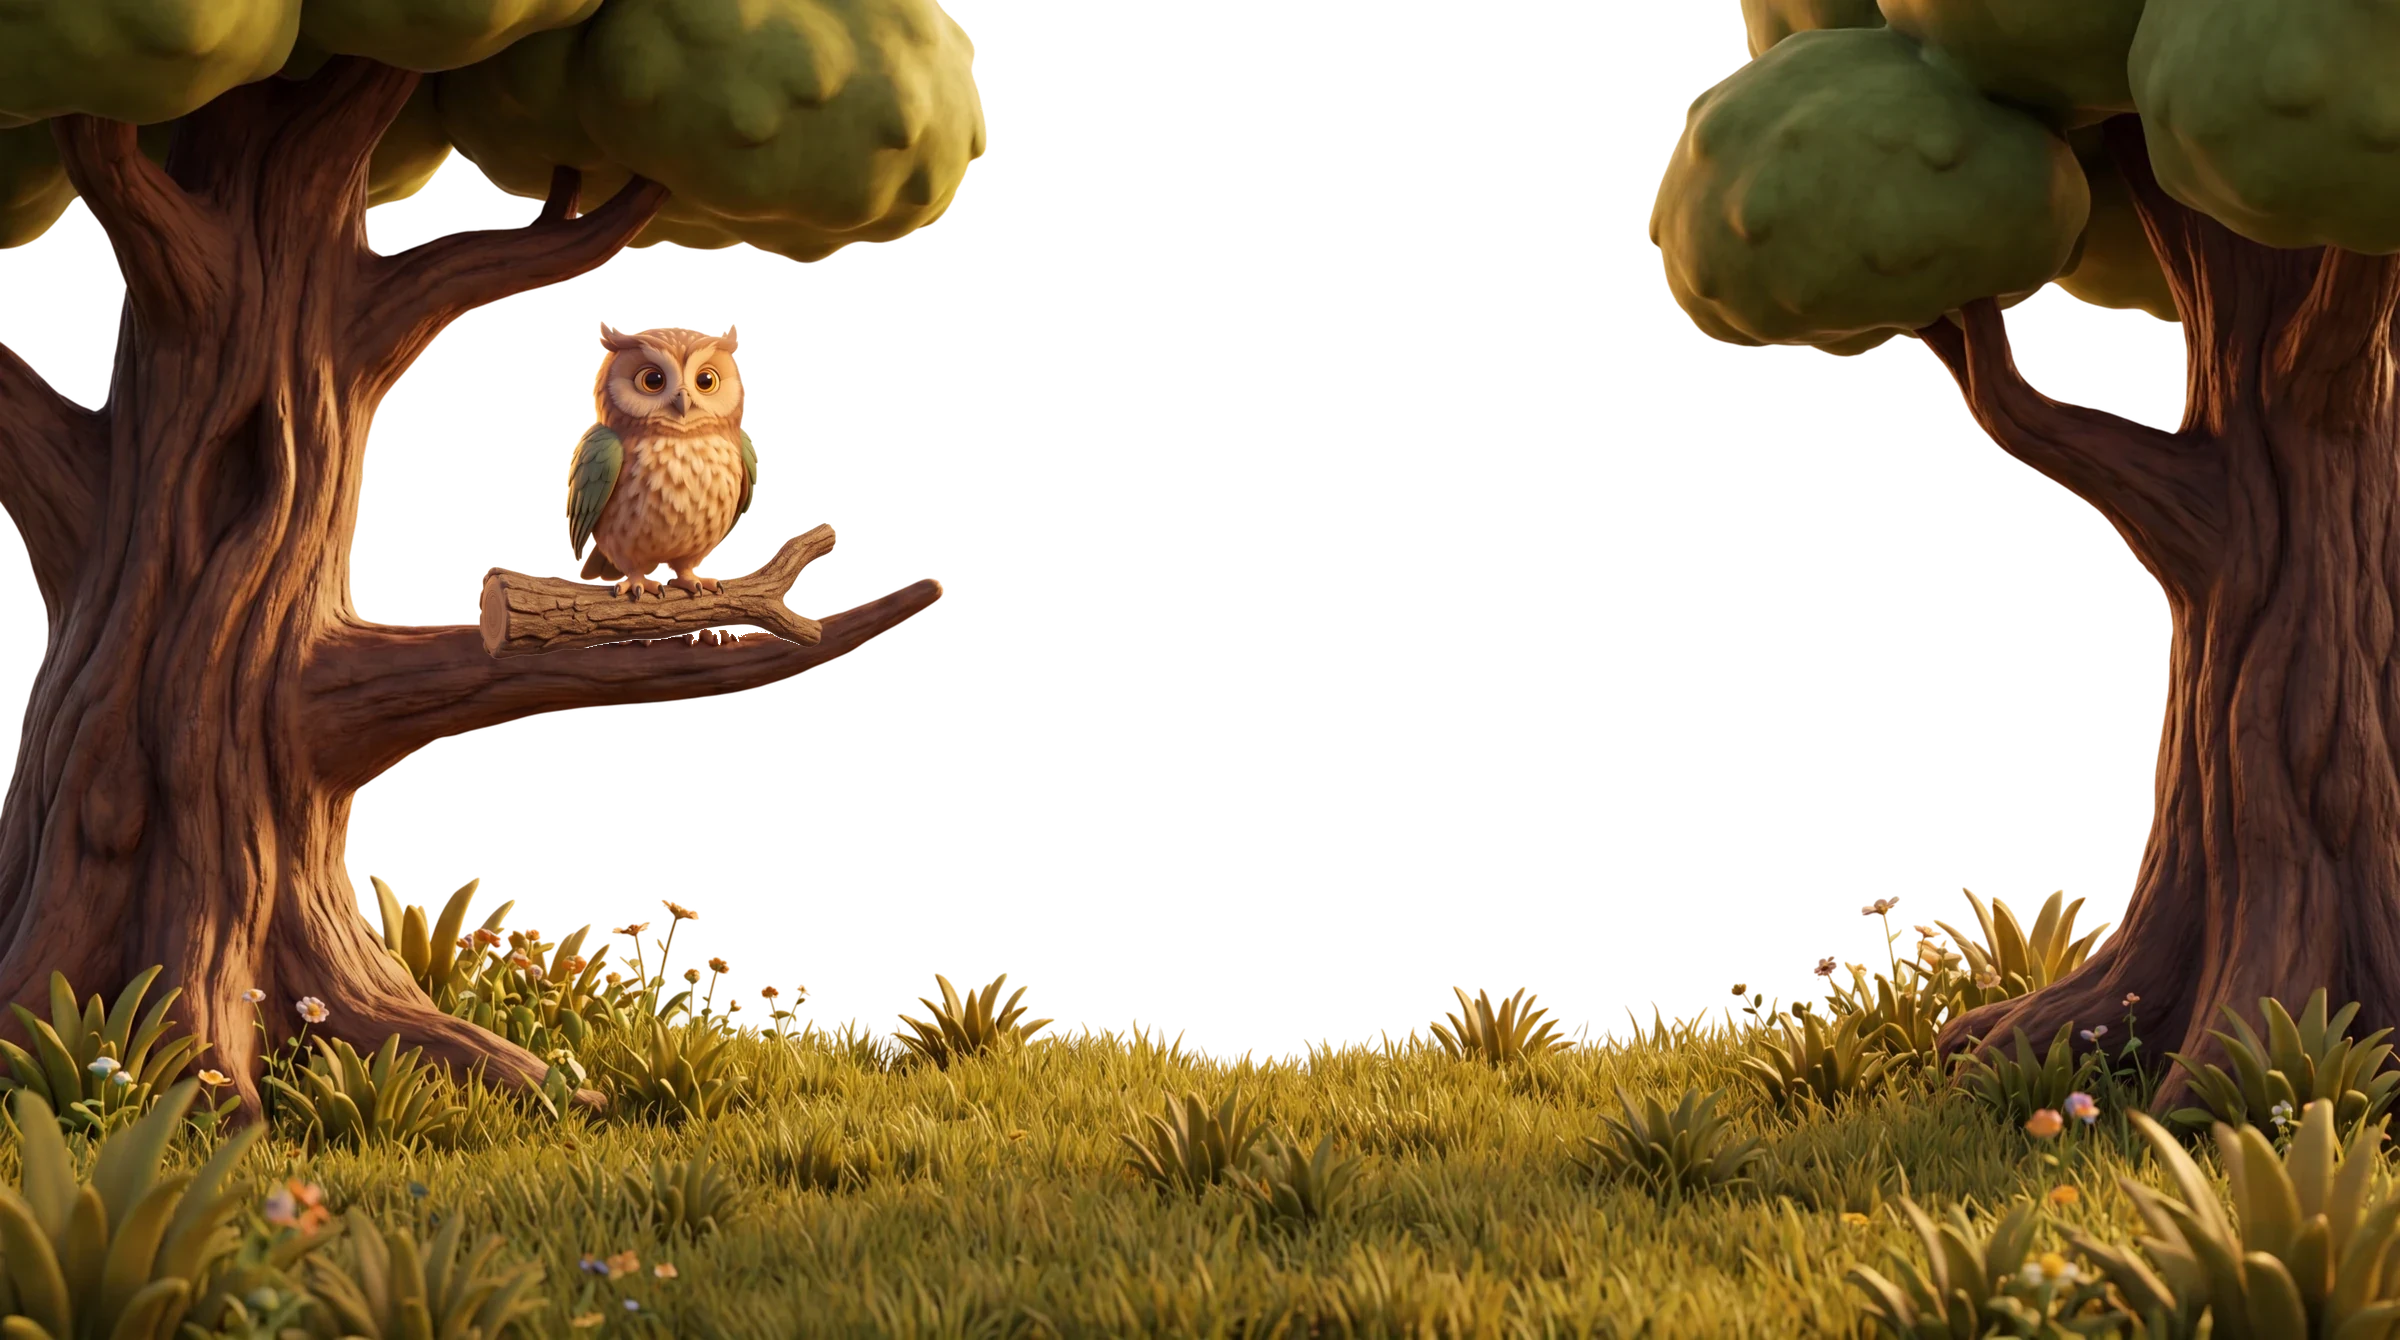
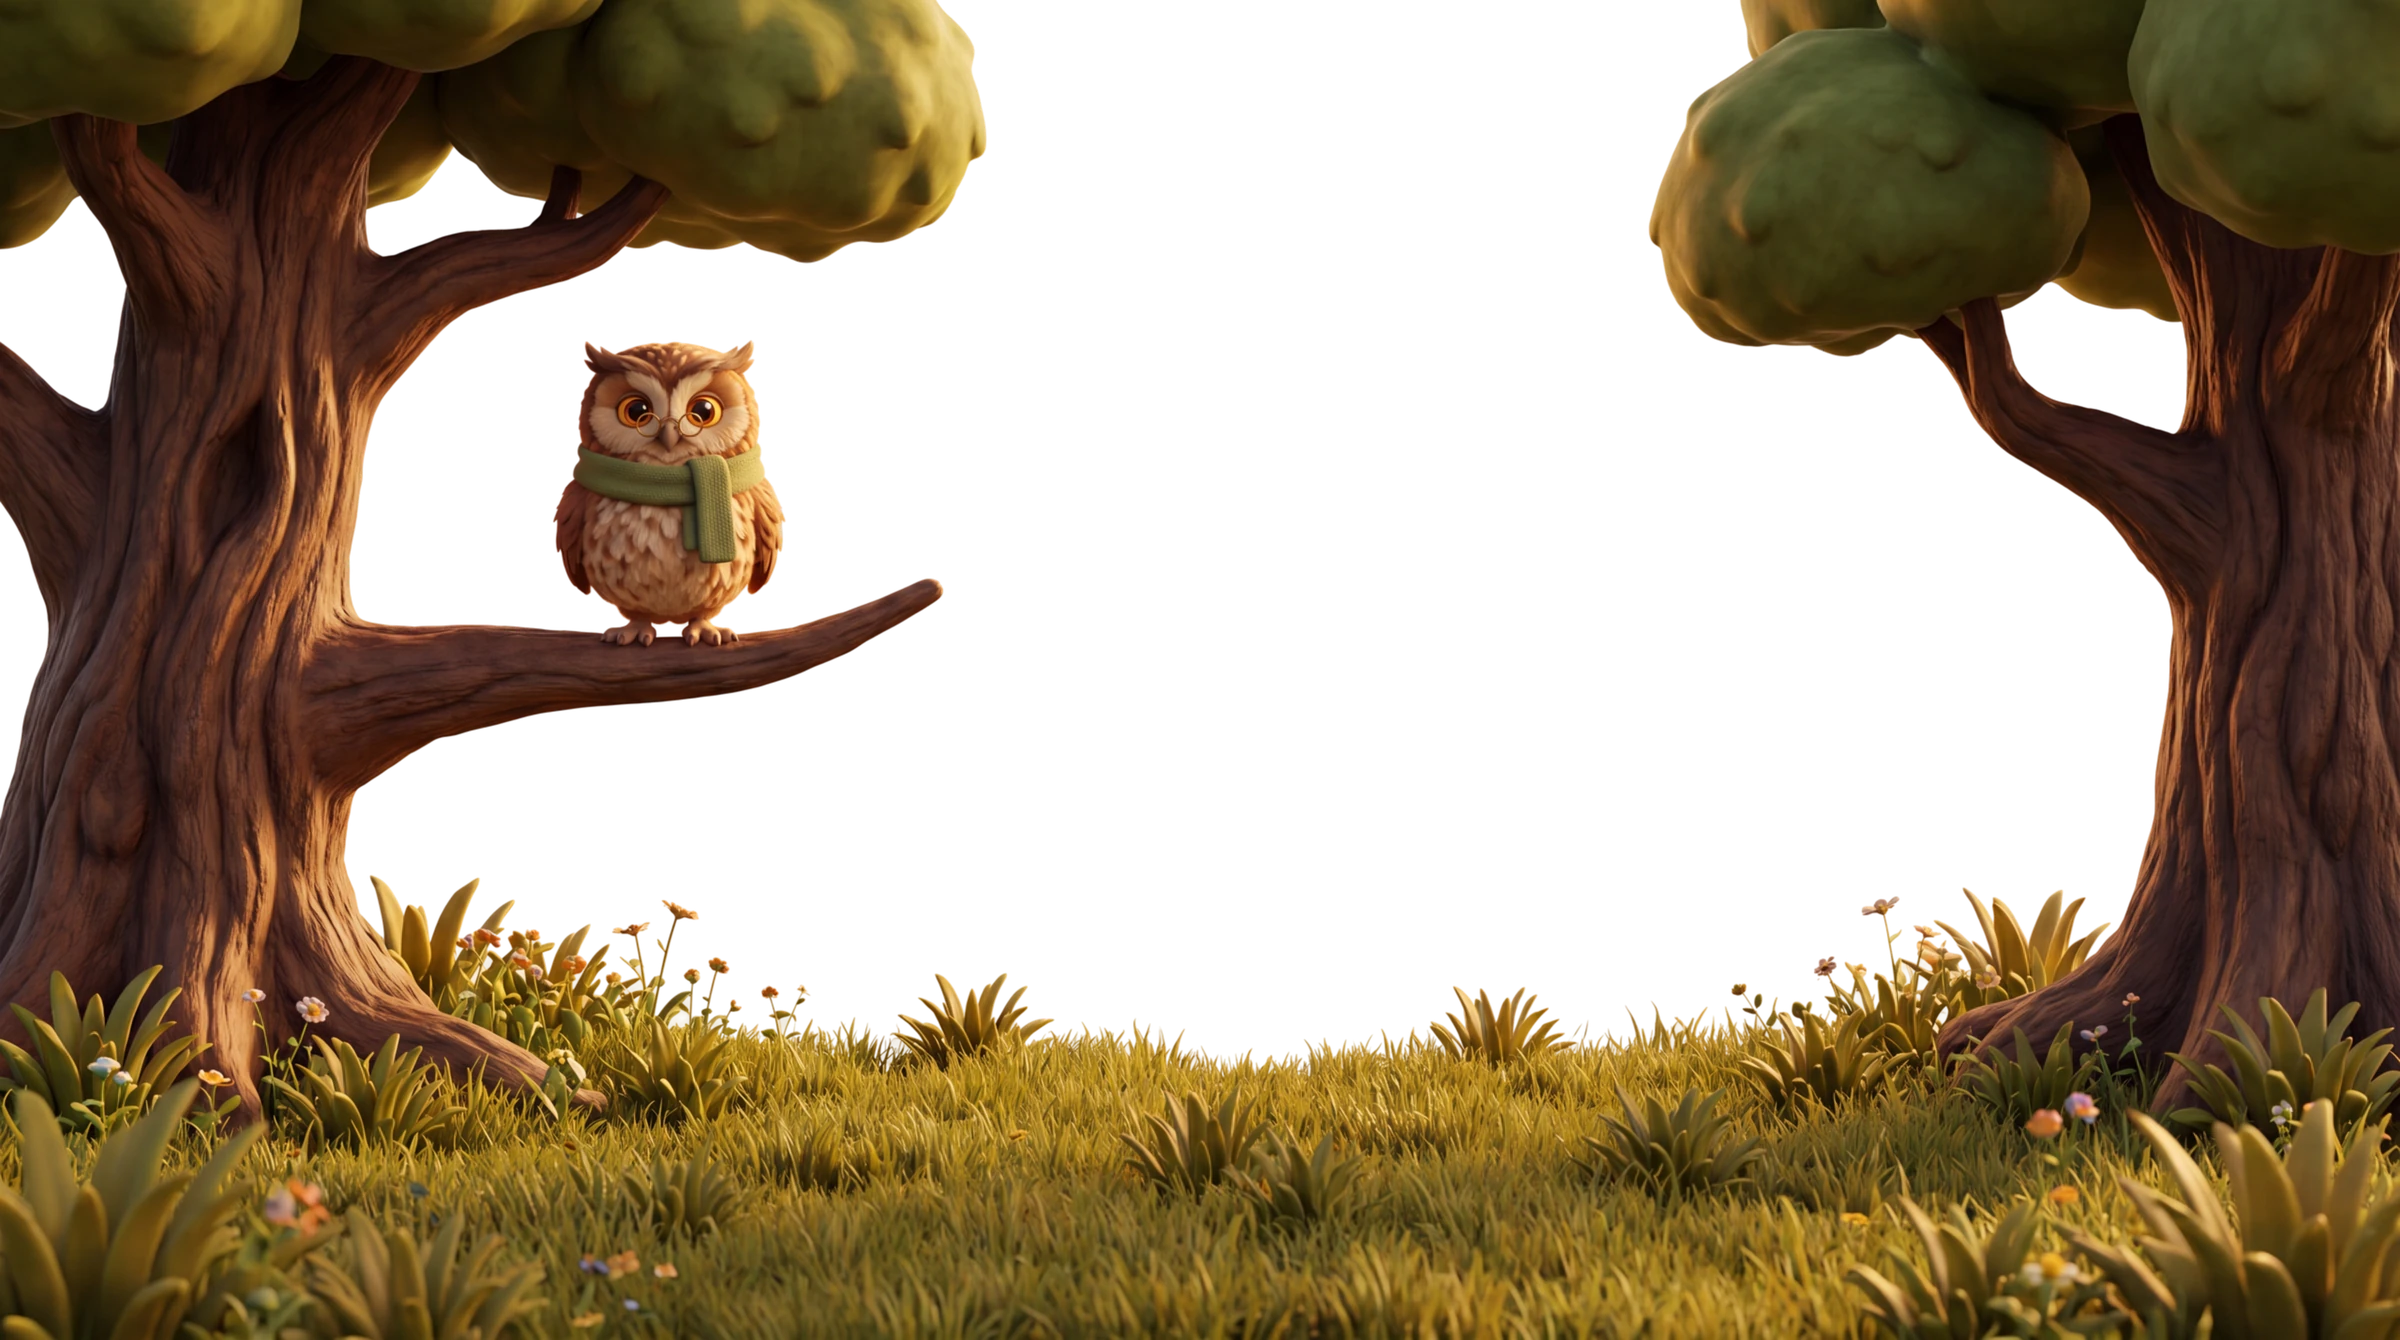
Hero: revenire la prim-planul si interiorul originale + prim-plan pe tot cadrul (cover)

Changed region(s): [[0.1875, 0.2448, 0.3438, 0.4896]]

diff --git a/mateipeter/f/app.js b/mateipeter/f/app.js
@@ -514,10 +514,11 @@ setTimeout(function(){var c=document.getElementById('cabin');if(c)c._base=null;o
     var h=document.getElementById('l4'); if(!h)return;
     [].slice.call(h.querySelectorAll('.ground,.tree')).forEach(function(x){x.style.display='none'});
     var e=document.createElement('img'); e.src=i.src; e.alt='';
-    /* scalat dupa inaltime: altfel coroanele copacilor ies din cadru si se taie */
-    e.style.cssText='position:absolute;left:50%;bottom:0;transform:translateX(-50%);'+
-      'height:100%;width:auto;min-width:100%;max-width:none;object-fit:contain;'+
-      'object-position:bottom center;pointer-events:none;z-index:2';
+    /* umple cadrul colt in colt: cover, ancorat jos — se taie putin din coroane, dar
+       nu mai raman benzi de fundal pe laterale la ecrane late */
+    e.style.cssText='position:absolute;left:0;top:0;width:100%;height:100%;'+
+      'object-fit:cover;object-position:center bottom;'+
+      'pointer-events:none;z-index:2';
     h.insertBefore(e,h.firstChild);
     /* aceeasi iarba, inca o data, DEASUPRA personajelor - le intra peste talpi */
     var g=e.cloneNode(); g.className='grassfront';
